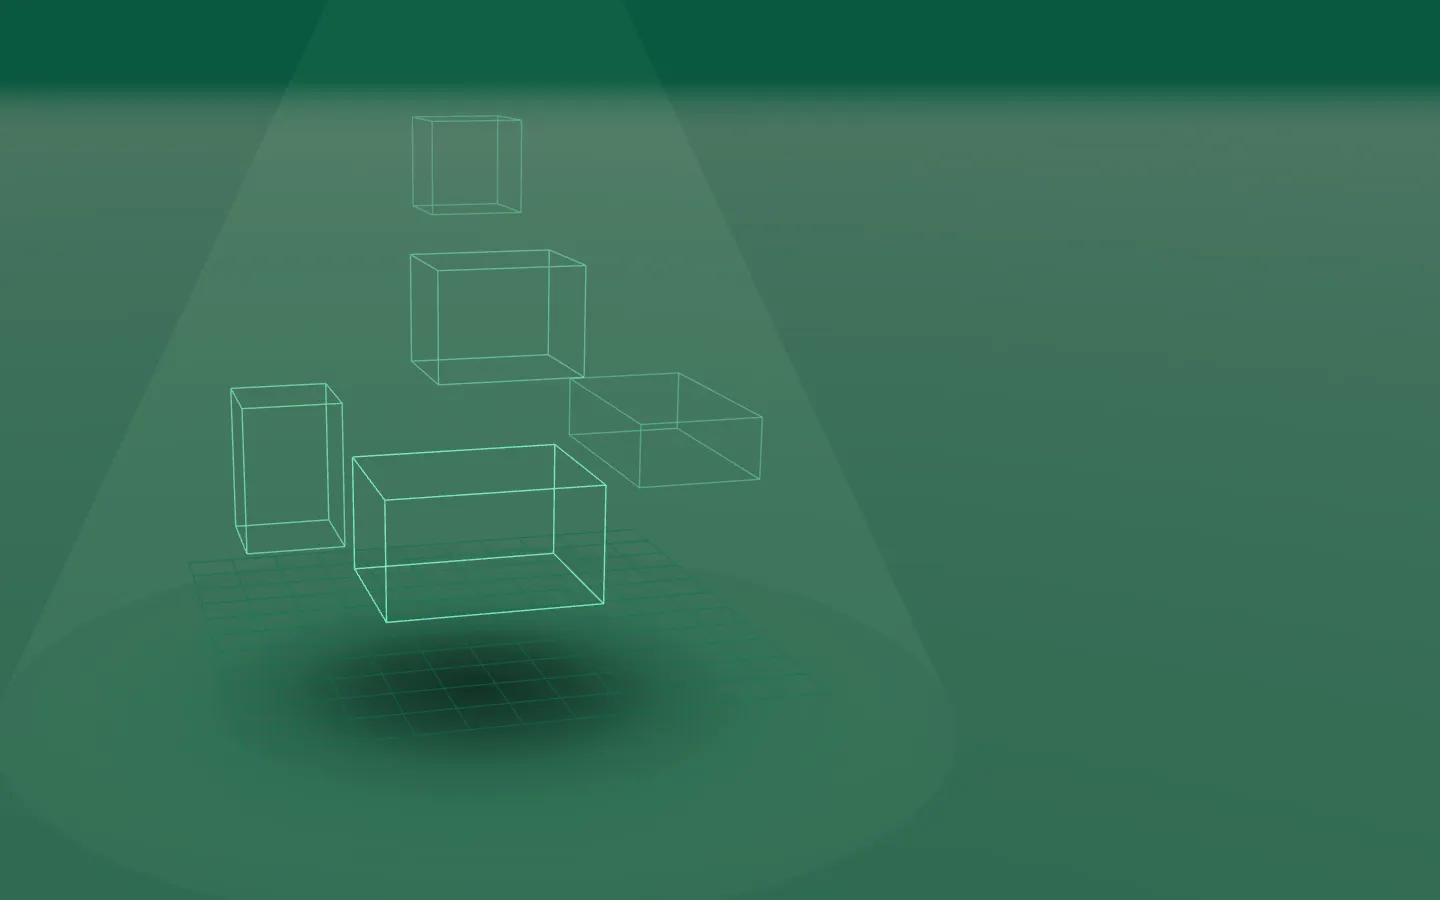
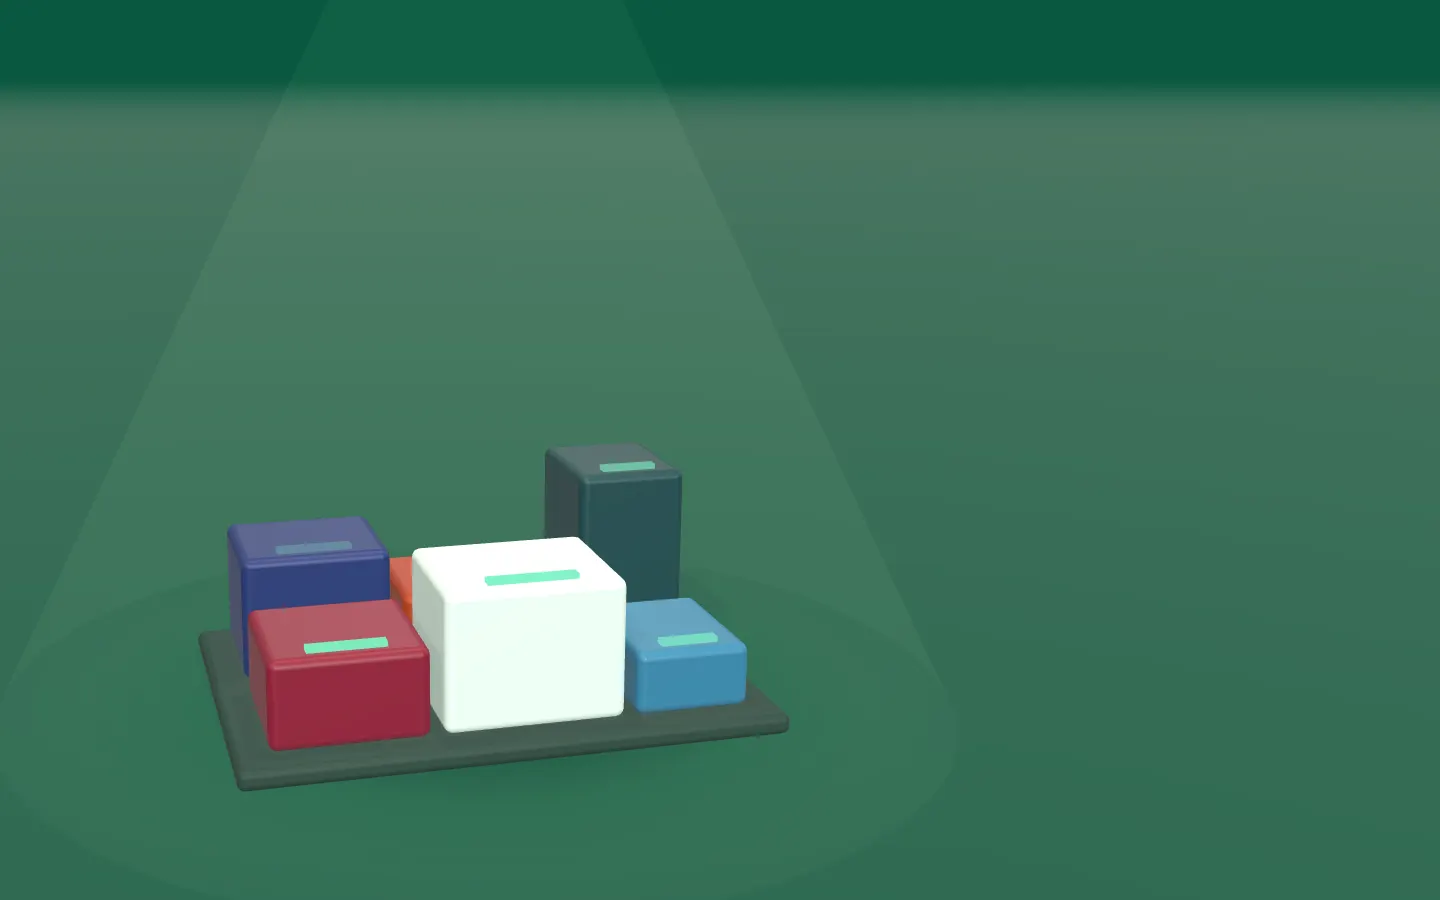
Hero 'next system': modules in the systems' colours that drop and lock onto a plate

diff --git a/src/three/devices.ts b/src/three/devices.ts
@@ -236,34 +236,63 @@ export function device(kind: DeviceKind, tex: THREE.Texture) {
   return g
 }
 
-/** The seventh spot: wireframe blocks that keep assembling, for "your next system". */
+/**
+ * The seventh spot, "your next system": modules in the systems' colours drop onto a plate
+ * and lock in with a small light, then lift away and assemble again in a new order.
+ */
 export function blueprint() {
   const g = new THREE.Group()
-  const mat = new THREE.LineBasicMaterial({ color: '#7DF5C4', transparent: true, toneMapped: false })
-  const blocks = [
-    [0.9, 0.5, 0.7, 0, 0, 0],
-    [0.6, 0.45, 0.5, 0.1, 0.5, -0.05],
-    [0.35, 0.35, 0.35, -0.05, 0.95, 0.05],
-    [0.5, 0.25, 0.9, 0.75, 0, 0.15],
-    [0.4, 0.6, 0.4, -0.75, 0, -0.2],
+  const plate = new THREE.Mesh(new RoundedBoxGeometry(2.1, 0.08, 1.5, 2, 0.03), new THREE.MeshStandardMaterial({ color: '#163b31', roughness: 0.6 }))
+  plate.position.y = 0.04
+  g.add(plate)
+  // colour, x, z, width, height, depth
+  const spec: [string, number, number, number, number, number][] = [
+    ['#18306F', -0.62, -0.38, 0.6, 0.5, 0.55],
+    ['#A5370A', 0.08, -0.38, 0.7, 0.3, 0.55],
+    ['#0B4246', 0.7, -0.38, 0.45, 0.75, 0.55],
+    ['#860F30', -0.62, 0.32, 0.6, 0.35, 0.6],
+    ['#DFF7EC', 0.08, 0.32, 0.7, 0.55, 0.6],
+    ['#2F7FA3', 0.7, 0.32, 0.45, 0.25, 0.6],
   ]
-  const parts = blocks.map((b, i) => {
-    const l = new THREE.LineSegments(new THREE.EdgesGeometry(new THREE.BoxGeometry(b[0], b[1], b[2])), mat.clone())
-    l.userData = { home: new THREE.Vector3(b[3], b[4] + b[1] / 2, b[5]), i }
-    g.add(l)
-    return l
+  const ledMat = new THREE.MeshBasicMaterial({ color: '#7DF5C4', transparent: true, toneMapped: false })
+  const mods = spec.map(([c, x, z, w, h, d]) => {
+    const m = new THREE.Group()
+    const box = new THREE.Mesh(new RoundedBoxGeometry(w, h, d, 2, 0.035), new THREE.MeshStandardMaterial({ color: c, roughness: 0.4, metalness: 0.1 }))
+    box.position.y = h / 2
+    m.add(box)
+    const led = new THREE.Mesh(new THREE.BoxGeometry(w * 0.5, 0.02, 0.05), ledMat.clone())
+    led.position.set(0, h + 0.011, d / 2 - 0.08)
+    m.add(led)
+    m.position.set(x, 0.08, z)
+    g.add(m)
+    return { m, led }
   })
-  const grid = new THREE.GridHelper(2.2, 11, 0x0b6e4f, 0x0b6e4f)
-  ;(grid.material as THREE.Material).transparent = true
-  ;(grid.material as THREE.Material).opacity = 0.5
-  grid.position.y = 0.005
-  g.add(grid)
-  g.userData.tick = (t: number) =>
-    parts.forEach((p) => {
-      const k = Math.min(1, ((Math.sin(t * 0.8 - p.userData.i * 0.7) + 1) / 2) * 1.6)
-      p.position.copy(p.userData.home)
-      p.position.y += (1 - k) * 0.8
-      ;(p.material as THREE.LineBasicMaterial).opacity = 0.3 + 0.7 * k
+  const clamp = (v: number) => Math.min(1, Math.max(0, v))
+  const smooth = (v: number) => {
+    v = clamp(v)
+    return v * v * (3 - 2 * v)
+  }
+  // lands with a small overshoot, like a part clicking into place
+  const land = (v: number) => {
+    v = clamp(v)
+    return 1 + 2.6 * Math.pow(v - 1, 3) + 1.6 * Math.pow(v - 1, 2)
+  }
+  const T = 7
+  g.userData.tick = (time: number) => {
+    // start at 70% of the cycle so the first (and any frozen) frame shows the finished build
+    const t = time + T * 0.7
+    const n = Math.floor(t / T)
+    const k = (t % T) / T
+    mods.forEach(({ m, led }, i) => {
+      const slot = (i * 5 + n * 2) % 6
+      const drop = land((k - 0.05 - slot * 0.08) / 0.16)
+      const up = smooth((k - 0.86) / 0.12)
+      m.position.y = 0.08 + (1 - drop) * 2.2 + up * 2.2
+      m.visible = k > 0.05 + slot * 0.08 && up < 1
+      m.rotation.y = (1 - drop) * 0.6
+      const lit = clamp((k - 0.2 - slot * 0.08) / 0.06)
+      ;(led.material as THREE.MeshBasicMaterial).opacity = lit * (0.6 + 0.4 * Math.sin(t * 6 + i))
     })
+  }
   return g
 }
